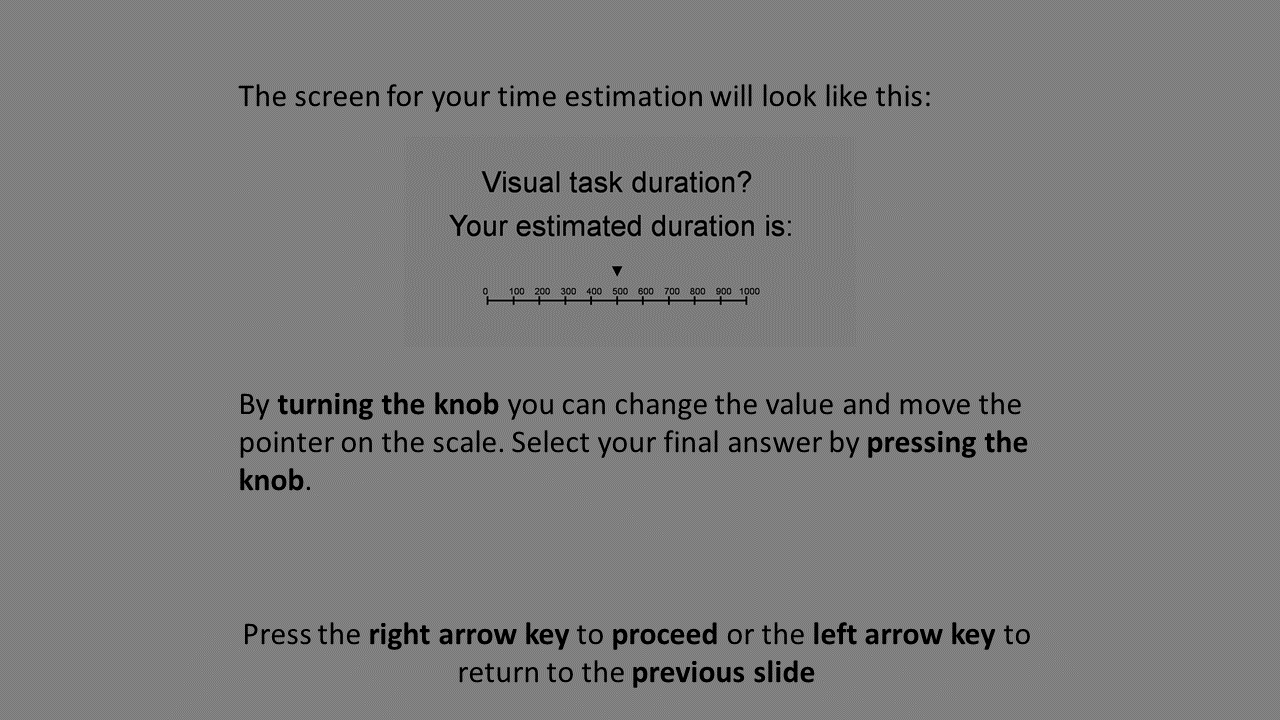
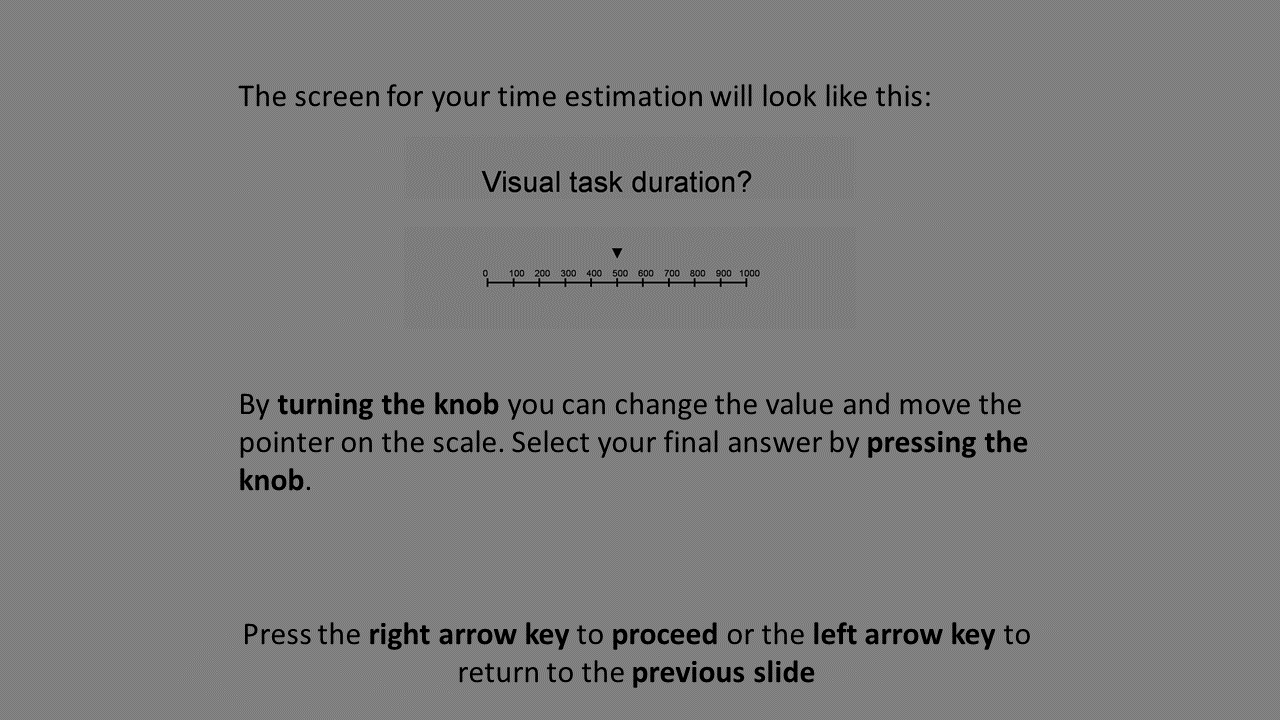
Add mouse repsonse for iRT

Changed region(s): [[0.375, 0.3667, 0.5938, 0.4278], [0.3438, 0.3056, 0.625, 0.3361]]

diff --git a/functions/run_dial.m b/functions/run_dial.m
@@ -1,7 +1,13 @@
 function [ iT ] = run_dial(introspec_question)
 clearvars -except introspec_question
 
-global RightKey LeftKey compKbDevice DIAL ValidationKey DIAL_SENSITIVITY_FACTOR
+global DIAL DIAL_SENSITIVITY_FACTOR ScreenWidth line_length right_end left_end
+
+% line coordinates
+left_end = ScreenWidth*(1/4);
+right_end = ScreenWidth*(3/4);
+line_length = right_end - left_end;
+
 
 % check if dial available
 iT = 500;
@@ -14,17 +20,14 @@ end
 
 % if no dial available
 if ~DIAL
-    key = 0;
+    buttons = [0,0,0];
 
-    while key ~= 1
-        [~, ~, Resp1] = KbCheck(compKbDevice);
-        if Resp1(ValidationKey)
-            key = 1;
-        elseif Resp1(RightKey)
-            iT = iT + 5;
-        elseif Resp1(LeftKey)
-            iT = iT - 5;
-        end
+    ShowCursor('Arrow')
+    while buttons(1) ~= 1
+
+        [x,~,buttons,~,~,~] = GetMouse();
+
+        iT = ((x-left_end)/line_length)*1000; 
         
         % restrict iT value to 0 to 1000
         if iT > 1000
@@ -34,6 +37,7 @@ if ~DIAL
         end
         make_time_estimation_screen(iT, introspec_question)
     end
+    HideCursor()
 
 else % if dial is available
     % get response parameters from dial

diff --git a/tryout_scale.m b/tryout_scale.m
@@ -1,0 +1,42 @@
+% Clear the workspace and the screen
+sca;
+close all;
+clear;
+
+function_folder = [pwd,filesep,'functions\'];
+addpath(function_folder)
+subjectNum = 118;
+introspec_question = 'vis';
+initRuntimeParameters
+initConstantsParameters(); % defines all constants and initilizes parameters of the program
+initPsychtooblox();
+key = 0;
+number_of_cali_trails = 10;
+% [iT] = run_dial(introspec_question);
+
+calibration(5)
+
+% while key ~= 1
+% 
+% [KeyIsDown, Resp_Time, Resp1] = KbCheck(compKbDevice);
+% 
+% if Resp1(spaceBar)
+%     key = 1;
+% elseif Resp1(RightKey)
+%     iRT = iRT + 5; 
+% elseif Resp1(LeftKey)
+%     iRT = iRT - 5;
+% end
+% 
+% if iRT > 1000
+%     iRT = 1000;
+% elseif iRT < 0
+%     iRT = 0;
+% end 
+% 
+% make_introspec_response_screen(iRT, introspec_question)
+% end 
+
+
+% Clear the screen
+sca;

diff --git a/Run_ReconTime.m b/Run_ReconTime.m
@@ -90,16 +90,16 @@ if SHOW_INSTRUCTIONS
 end
 
 % calibration task
-% if strcmp(task_type, 'introspection')
-%     showMessage(CALIBRATION_START_MESSAGE);
-%     wait_resp = 0;
-%     while wait_resp == 0
-%         [~, ~, wait_resp] = KbCheck();
-%     end
-%     handle = PsychPowerMate('Open'); % open dial
-%     cali_log = calibration(NUM_OF_TRIALS_CALIBRATION);
-%     saveTable(cali_log,'calibration', 1)
-% end
+if strcmp(task_type, 'introspection')
+    showMessage(CALIBRATION_START_MESSAGE);
+    wait_resp = 0;
+    while wait_resp == 0
+        [~, ~, wait_resp] = KbCheck();
+    end
+    handle = PsychPowerMate('Open'); % open dial
+    cali_log = calibration(NUM_OF_TRIALS_CALIBRATION);
+    saveTable(cali_log,'calibration', 1)
+end
 
 %% Main experimental loop:
 try

diff --git a/functions/initPsychtooblox.m b/functions/initPsychtooblox.m
@@ -18,7 +18,7 @@ function [] = initPsychtooblox()
 
         else
             % For the real experiment, do not skip the sync test
-            Screen('Preference', 'SkipSyncTests', 0); 
+            Screen('Preference', 'SkipSyncTests', 1); 
         end
     catch
         % Trying a second time just in case something went wrong the first
@@ -26,7 +26,7 @@ function [] = initPsychtooblox()
         if DEBUG 
             Screen('Preference', 'SkipSyncTests', 1); 
         else
-            Screen('Preference', 'SkipSyncTests', 0); 
+            Screen('Preference', 'SkipSyncTests', 1); 
         end
     end
     Screen('Preference', 'TextRenderer', 1);

diff --git a/initRuntimeParameters.m b/initRuntimeParameters.m
@@ -52,7 +52,7 @@ NO_FULLSCREEN = 0; % enable windowed mode for dubugging
 NO_ERROR = 0; % Disable testing program error throws
 % Q: Do I need to fill this out? Pixels? Yoav: only if you want the debug scree to be of a different size
 WINDOW_RESOLUTION = [10 10 1200 800];
-DIAL = 1; % 1 if dial is present
+DIAL = 0; % 1 if dial is present
 RESPONSE_BOX = 1; % 1 if Cedrus RB-844 response box is present. 
 
 end
